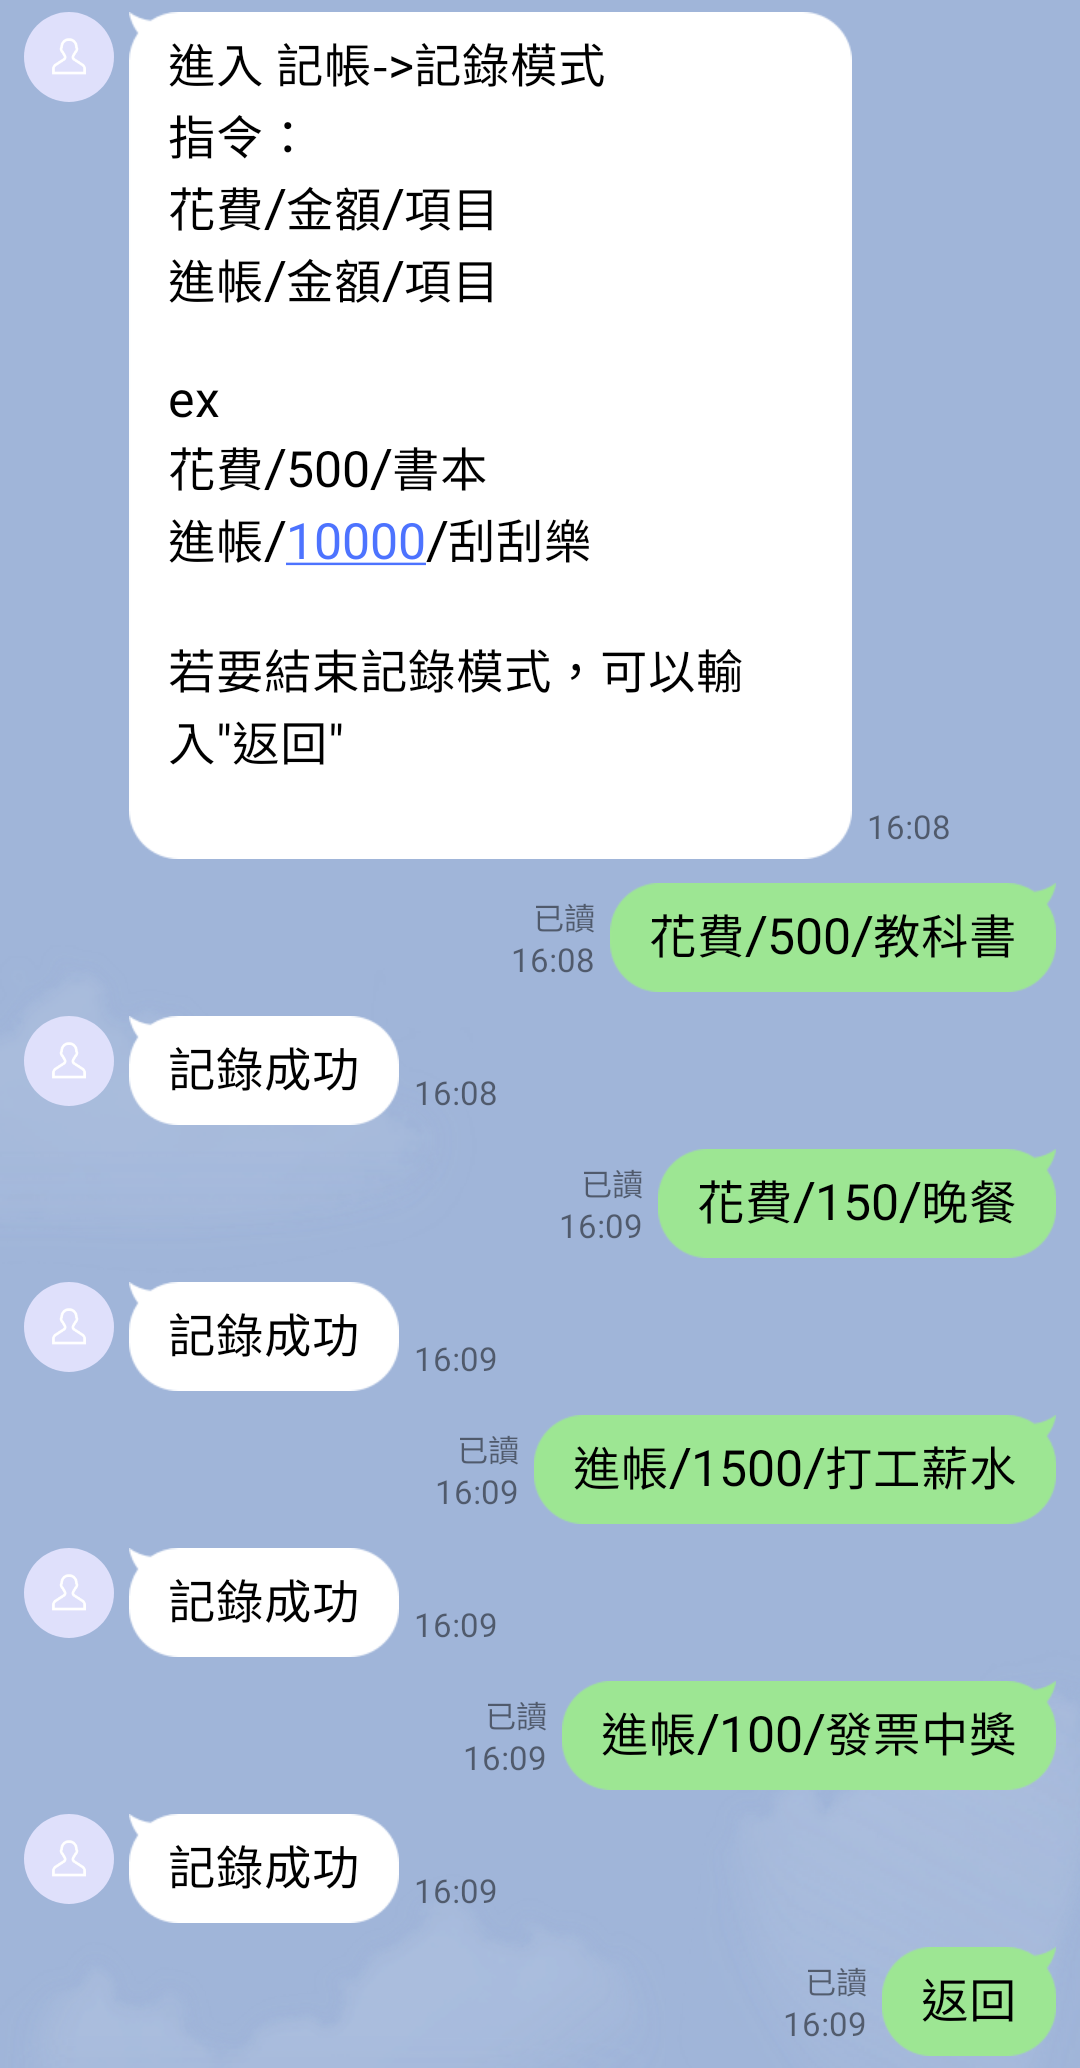
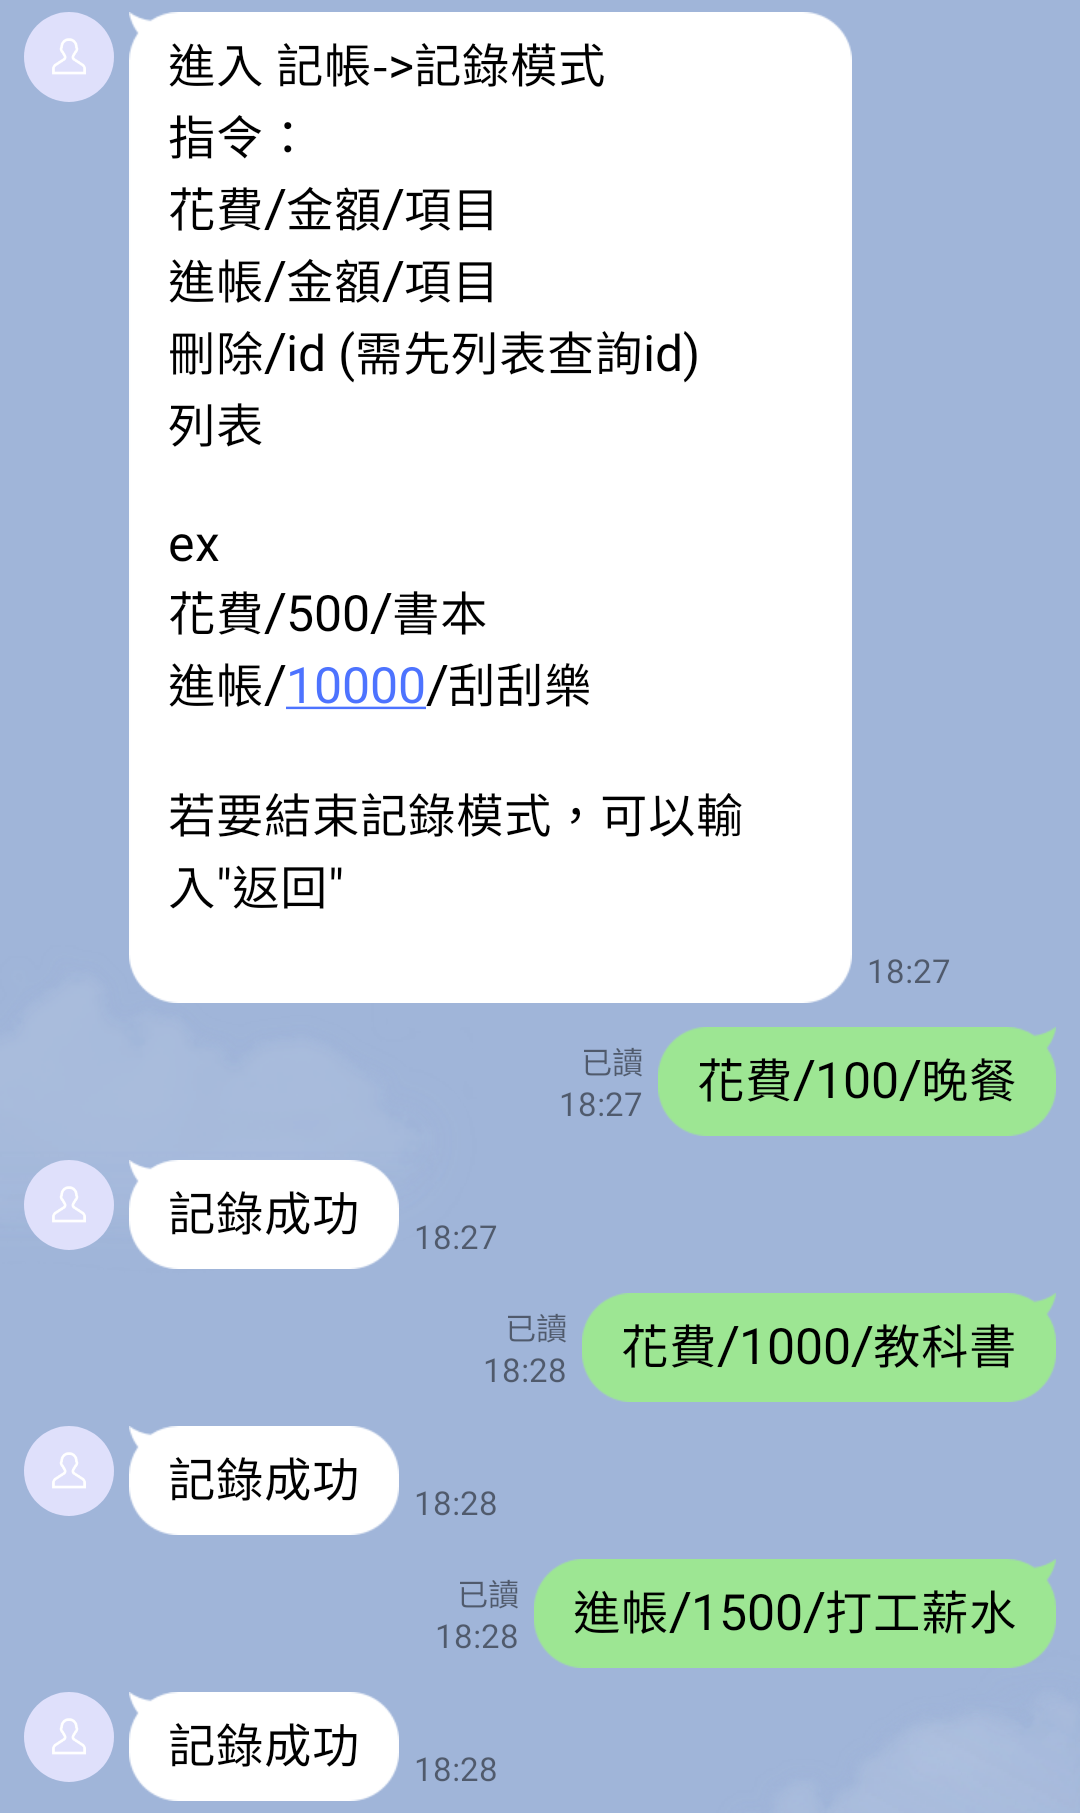
finish

diff --git a/app.py b/app.py
@@ -16,6 +16,8 @@ import matplotlib
 import matplotlib.pyplot as plt
 from matplotlib.font_manager import FontProperties
 
+import sql
+
 def pie(data,category,color,seperated):
     myFont = FontProperties(fname = "./font/kaiu.ttf",size  = 14)
     category = category#["測試1","測試2"]
@@ -55,7 +57,7 @@ machine = TocMachine(
     states=["user", 
     "memo", "memoAdd", "memoDelete", "memoList",
     "bookkeeping", "bookkeepingRecord"
-    # ,"bookkeeping", "bookkeepingCost", "bookkeepingEarn", "bookkeeping"
+    # ,"bookkeeping", "bookkeepingCost", "bookkeepingEarn", "bookkeepingCategory", "bookeepingMoney", "bookeepingContent"
     ],
     transitions=[
         {"trigger": "advance","source": ["user", "bookkeeping"],"dest": "memo","conditions": "is_going_to_memo",},
@@ -72,6 +74,7 @@ machine = TocMachine(
         
         {"trigger": "advance","source":  ["user","memo","bookkeeping","bookkeepingRecord"],"dest": "user","conditions": "is_going_to_reset",},
         #-----------------------------------------------#
+
     ],
     initial="user",
     auto_transitions=False,
@@ -159,36 +162,90 @@ def webhook_handler():
             message = event.message.text.split('/')
             if message[0]=="返回" or message[0] == "reset":
                 response = machine.advance(event)
-            elif len(message) != 3:
+            # elif len(message) != 3:
+            #     send_text_message(reply_token,"錯誤的指令")
+            elif message[0] == "help":
+                send_text_message(reply_token,
+"""進入 記帳->記錄模式
+指令：
+花費/金額/項目
+進帳/金額/項目
+刪除/id (需先列表查詢id)
+列表
+
+ex
+花費/500/書本
+進帳/10000/刮刮樂
+
+若要結束記錄模式，可以輸入"返回"
+""")
+            elif message[0] == "花費" and len(message) == 3:
+                # machine.bookkeepingCost.append([int(message[1]),message[2]])
+                sql.sql_insert_account(message[2],message[1],message[0])
+                send_text_message(reply_token,"記錄成功")
+            elif message[0] == "進帳"and len(message) == 3:
+                sql.sql_insert_account(message[2],message[1],message[0])
+                # machine.bookkeepingEarn.append([int(message[1]),message[2]])
+                send_text_message(reply_token,"記錄成功")
+            elif message[0] == "刪除"and len(message) == 2:
+                sql.sql_delete_account(message[1])
+                send_text_message(reply_token,"刪除成功")
+            elif message[0] == "列表":
+                s = "你的花費內容:\nid:項目->金額\n"
+                cost_data = sql.sql_search_account("花費")
+                earn_data = sql.sql_search_account("進帳")
+                for i in range(len(cost_data)):
+                    s = s + "{}:{}->{}\n".format(cost_data[i][0],cost_data[i][2],cost_data[i][1])
+                s += "\n你的進帳內容:\nid:項目->金額\n"
+                for i in range(len(earn_data)):
+                    s = s + "{}:{}->{}\n".format(earn_data[i][0],earn_data[i][2],earn_data[i][1])
+                if len(cost_data) == 0 and len(earn_data) == 0:
+                    send_text_message(reply_token,"帳本目前為空的")
+                else:
+                    send_text_message(reply_token,s)
+            else:
                 send_text_message(reply_token,"錯誤的指令")
-            elif message[0] == "花費":
-                machine.bookkeepingCost.append([int(message[1]),message[2]])
-                send_text_message(reply_token,"記錄成功")
-            elif message[0] == "進帳":
-                machine.bookkeepingEarn.append([int(message[1]),message[2]])
-                send_text_message(reply_token,"記錄成功")
-            print("COST = ",machine.bookkeepingCost)
-            print("EARN = ",machine.bookkeepingEarn)
+            # print("COST = ",machine.bookkeepingCost)
+            # print("EARN = ",machine.bookkeepingEarn)
             return "OK"
         elif machine.mode=="bookkeeping" and event.message.text == "列表":
-            s = "你的花費內容:\n項目->金額\n"
-            for i in range(len(machine.bookkeepingCost)):
-                s = s + "{}->{}\n".format(machine.bookkeepingCost[i][1],machine.bookkeepingCost[i][0])
-            s += "\n你的進帳內容:\n項目->金額\n"
-            for i in range(len(machine.bookkeepingEarn)):
-                s = s + "{}->{}\n".format(machine.bookkeepingEarn[i][1],machine.bookkeepingEarn[i][0])
-            if len(machine.bookkeepingCost) == 0 and len(machine.bookkeepingEarn) == 0:
+            s = "你的花費內容:\nid:項目->金額\n"
+            cost_data = sql.sql_search_account("花費")
+            earn_data = sql.sql_search_account("進帳")
+            # for i in range(len(machine.bookkeepingCost)):
+            #     s = s + "{}->{}\n".format(machine.bookkeepingCost[i][1],machine.bookkeepingCost[i][0])
+            # s += "\n你的進帳內容:\n項目->金額\n"
+            # for i in range(len(machine.bookkeepingEarn)):
+            #     s = s + "{}->{}\n".format(machine.bookkeepingEarn[i][1],machine.bookkeepingEarn[i][0])
+            for i in range(len(cost_data)):
+                s = s + "{}:{}->{}\n".format(cost_data[i][0],cost_data[i][2],cost_data[i][1])
+            s += "\n你的進帳內容:\nid:項目->金額\n"
+            for i in range(len(earn_data)):
+                s = s + "{}:{}->{}\n".format(earn_data[i][0],earn_data[i][2],earn_data[i][1])
+            # if len(machine.bookkeepingCost) == 0 and len(machine.bookkeepingEarn) == 0:
+            #     send_text_message(reply_token,"帳本目前為空的")
+            # else:
+            #     send_text_message(reply_token,s)
+            if len(cost_data) == 0 and len(earn_data) == 0:
                 send_text_message(reply_token,"帳本目前為空的")
             else:
                 send_text_message(reply_token,s)
             return "OK"
         elif machine.mode=="bookkeeping" and event.message.text == "分析":
+            # cost = 0
+            # for i in range(len(machine.bookkeepingCost)):
+            #     cost += machine.bookkeepingCost[i][0]
+            # earn = 0
+            # for i in range(len(machine.bookkeepingEarn)):
+            #     earn += machine.bookkeepingEarn[i][0]
             cost = 0
-            for i in range(len(machine.bookkeepingCost)):
-                cost += machine.bookkeepingCost[i][0]
             earn = 0
-            for i in range(len(machine.bookkeepingEarn)):
-                earn += machine.bookkeepingEarn[i][0]
+            cost_data = sql.sql_search_account("花費")
+            earn_data = sql.sql_search_account("進帳")
+            for i in range(len(cost_data)):
+                cost += int(cost_data[i][1])
+            for i in range(len(earn_data)):
+                earn += int(earn_data[i][1])
             pie([cost,earn],["花費","進帳"],['#ff0000', '#d200d2'],(0,0.1))
             send_image_message(reply_token,imgur_URL("./img/account.png"))
             # send_image_message(reply_token,"https://toctesting.herokuapp.com/static/img/accorunt.png")

diff --git a/fsm.py b/fsm.py
@@ -2,7 +2,9 @@ from transitions.extensions import GraphMachine
 
 from utils import send_button_message, send_text_message
 
-memo =[]
+import sql
+
+#memo =[]
 
 
 
@@ -10,8 +12,8 @@ class TocMachine(GraphMachine):
     def __init__(self, **machine_configs):
         self.machine = GraphMachine(model=self, **machine_configs)
         self.mode = "user"
-        self.bookkeepingCost = []
-        self.bookkeepingEarn = []
+        # self.bookkeepingCost = []
+        # self.bookkeepingEarn = []
     #memo
 
     def is_going_to_memo(self, event):
@@ -47,34 +49,50 @@ class TocMachine(GraphMachine):
     
     def is_going_to_reset(self,event):
         text = event.message.text
+        if text == "reset":
+            sql.sql_reset()
         return text == "reset"
 
     def on_enter_memoAdd(self,event):
         content = event.message.text.split('/')
-        temp = {}
-        temp[content[2]] = content[1]
-        memo.append(temp)
-        #memo.append(str(event.message.text[3:]))
-        print(memo)
+        # temp = {}
+        # temp[content[2]] = content[1]
+        # memo.append(temp)
         reply_token = event.reply_token
-        send_text_message(reply_token,"新增成功")
+        if len(content) == 3:
+            sql.sql_insert_memo(content[2],content[1])
+        #memo.append(str(event.message.text[3:]))
+        # print(memo)
+        
+            send_text_message(reply_token,"新增成功")
+        else:
+            send_text_message(reply_token,"新增失敗")
         self.go_back_memo()
 
     def on_enter_memoDelete(self,event):
         reply_token = event.reply_token
         content = event.message.text.split('/')
-        if (int(content[1]) - 1 < len(memo)):
-            memo.pop(int(content[1]) - 1 )
-            send_text_message(reply_token,"刪除成功")
-        else:
-            send_text_message(reply_token,"查無此事件")
+        # if (int(content[1]) - 1 < len(memo)):
+        #     memo.pop(int(content[1]) - 1 )
+        #     send_text_message(reply_token,"刪除成功")
+        # else:
+        #     send_text_message(reply_token,"查無此事件")
+        sql.sql_delete_memo(content[1])
+        send_text_message(reply_token,"刪除成功")
         self.go_back_memo()
 
     def on_enter_memoList(self,event):
         reply_token = event.reply_token
         all_memo = "id/時間/活動內容\n"
-        for i in range(len(memo)):
-            all_memo = all_memo + str(i+1) + "/" + list(memo[i].values())[0]+"/" + list(memo[i].keys())[0] + "\n"
+        data = sql.sql_search_memo()
+        # print("ev = ",ev)
+        # print("ev[0] = ",ev[0])
+        # print("ev[0][0] = ",ev[0][0] )
+        # print("len(ev) = ",len(ev))
+        # for i in range(len(memo)):
+        #     all_memo = all_memo + str(i+1) + "/" + list(memo[i].values())[0]+"/" + list(memo[i].keys())[0] + "\n"
+        for i in range(len(data)):
+            all_memo = all_memo + str(data[i][0]) + "/" + data[i][2] +"/" + data[i][1] + "\n"
         if all_memo == "id/時間/活動內容\n":
             all_memo = "備忘錄沒有事情須完成"
         send_text_message(reply_token,all_memo)
@@ -108,10 +126,10 @@ ex:
         send_button_message(reply_token,"記錄小幫手","歡迎使用記錄小幫手，請選擇您想要的模式",["記帳","備忘錄"])
         text = event.message.text
         print("texttext = {}".format(text))
-        if (event.message.text == "reset"):
-            memo = []
-            self.bookkeepingEarn = []
-            self.bookkeepingCost = []
+        # if (event.message.text == "reset"):
+        #     memo = []
+        #     self.bookkeepingEarn = []
+        #     self.bookkeepingCost = []
         
 
     # def on_exit_user(self):
@@ -141,6 +159,8 @@ ex:
 指令：
 花費/金額/項目
 進帳/金額/項目
+刪除/id (需先列表查詢id)
+列表
 
 ex
 花費/500/書本

diff --git a/sql.py b/sql.py
@@ -1,0 +1,124 @@
+import pymysql
+
+db_settings = {
+    "host" : "127.0.0.1",
+    "port": 3306,
+    "user": "root",
+    "password": "ddcharles",
+    "db": "toc",
+    "charset": "utf8mb4"
+}
+
+def sql_search_memo():
+    try:
+        # 建立Connection物件
+        conn = pymysql.connect(**db_settings)
+
+        with conn.cursor() as cursor:
+            command = "select * from toc.memo"
+            cursor.execute(command)
+            result = cursor.fetchall()
+            print(result)
+            return(result)
+
+    except Exception as ex:
+        print(ex)
+
+def sql_search_account(cost_income):
+    try:
+        # 建立Connection物件
+        conn = pymysql.connect(**db_settings)
+
+        with conn.cursor() as cursor:
+            command = "select * from toc.account where cost_income = %s"
+            cursor.execute(command,(cost_income))
+            result = cursor.fetchall()
+            print(result)
+            return(result)
+
+    except Exception as ex:
+        print(ex)
+
+def sql_delete_memo(id):
+    try:
+        # 建立Connection物件
+        conn = pymysql.connect(**db_settings)
+        print("type = ",type(id))
+        print(id)
+        with conn.cursor() as cursor:
+            command = "delete from toc.memo where id = %s"
+            cursor.execute(command,(id))
+            conn.commit()
+            command = "select * from toc.memo"
+            cursor.execute(command)
+            result = cursor.fetchall()
+            print(result)
+    except Exception as ex:
+        print(ex)
+
+def sql_insert_memo(content,time):
+    try:
+        # 建立Connection物件
+        conn = pymysql.connect(**db_settings)
+        with conn.cursor() as cursor:
+            command = "insert into toc.memo(time, content) values(%s,%s)"
+            cursor.execute(command,(time,content))
+            conn.commit()
+            command = "select * from toc.memo"
+            cursor.execute(command)
+            result = cursor.fetchall()
+            print(result)
+
+    except Exception as ex:
+        print(ex)
+
+def sql_insert_account(content,money,cost_income):
+    try:
+        # 建立Connection物件
+        conn = pymysql.connect(**db_settings)
+
+        with conn.cursor() as cursor:
+            command = "insert into toc.account(money,content,cost_income) values(%s,%s,%s)"
+            cursor.execute(command,(money,content,cost_income))
+            conn.commit()
+            command = "select * from toc.account"
+            cursor.execute(command)
+            result = cursor.fetchall()
+            print(result)
+
+    except Exception as ex:
+        print(ex)
+
+def sql_reset():
+
+    try:
+        # 建立Connection物件
+        conn = pymysql.connect(**db_settings)
+
+        with conn.cursor() as cursor:
+            command = "TRUNCATE TABLE toc.memo"
+            cursor.execute(command)
+            conn.commit()
+            command = "TRUNCATE TABLE toc.account"
+            cursor.execute(command)
+            conn.commit()
+            # command = "select * from toc.memo"
+            # cursor.execute(command)
+            # result = cursor.fetchall()
+            # print(result)
+
+    except Exception as ex:
+        print(ex)
+
+def sql_delete_account(id):
+    try:
+        # 建立Connection物件
+        conn = pymysql.connect(**db_settings)
+
+        with conn.cursor() as cursor:
+            command = "delete from toc.account where idaccount = %s"
+            cursor.execute(command,id)
+            conn.commit()
+
+    except Exception as ex:
+        print(ex)

diff --git a/README.md b/README.md
@@ -5,7 +5,7 @@
 產生一個方便記帳、寫備忘錄的line bot<br>
 
 請先掃QR code來加入好友!<br>
-![image](https://github.com/DouCharles/TOC_final_project/blob/master/img/QR.PNG)
+![image](https://github.com/DouCharles/TOC_final_project/blob/master/img/QR.PNG=10x)
 
 ## 流程
 輸入"help"來得到功能介紹<br>
@@ -20,7 +20,8 @@
 根據指令輸入想記錄的內容<br>
 ![image](https://github.com/DouCharles/TOC_final_project/blob/master/img/記錄中.jpg)
 
-選擇"列表"   查看自己記錄哪些東西<br>
+輸入"列表"   查看自己記錄哪些東西<br>
+也可以輸入"刪除/id" 將記錄錯的資料刪掉<br>
 ![image](https://github.com/DouCharles/TOC_final_project/blob/master/img/記錄-列表.jpg)
 
 選擇"分析"  產生圓餅圖，自己的財務狀況可以一目瞭然<br>
@@ -41,3 +42,4 @@
 ## FSM 圖片
 
 ![image](https://github.com/DouCharles/TOC_final_project/blob/master/img/fsm.png)
+
